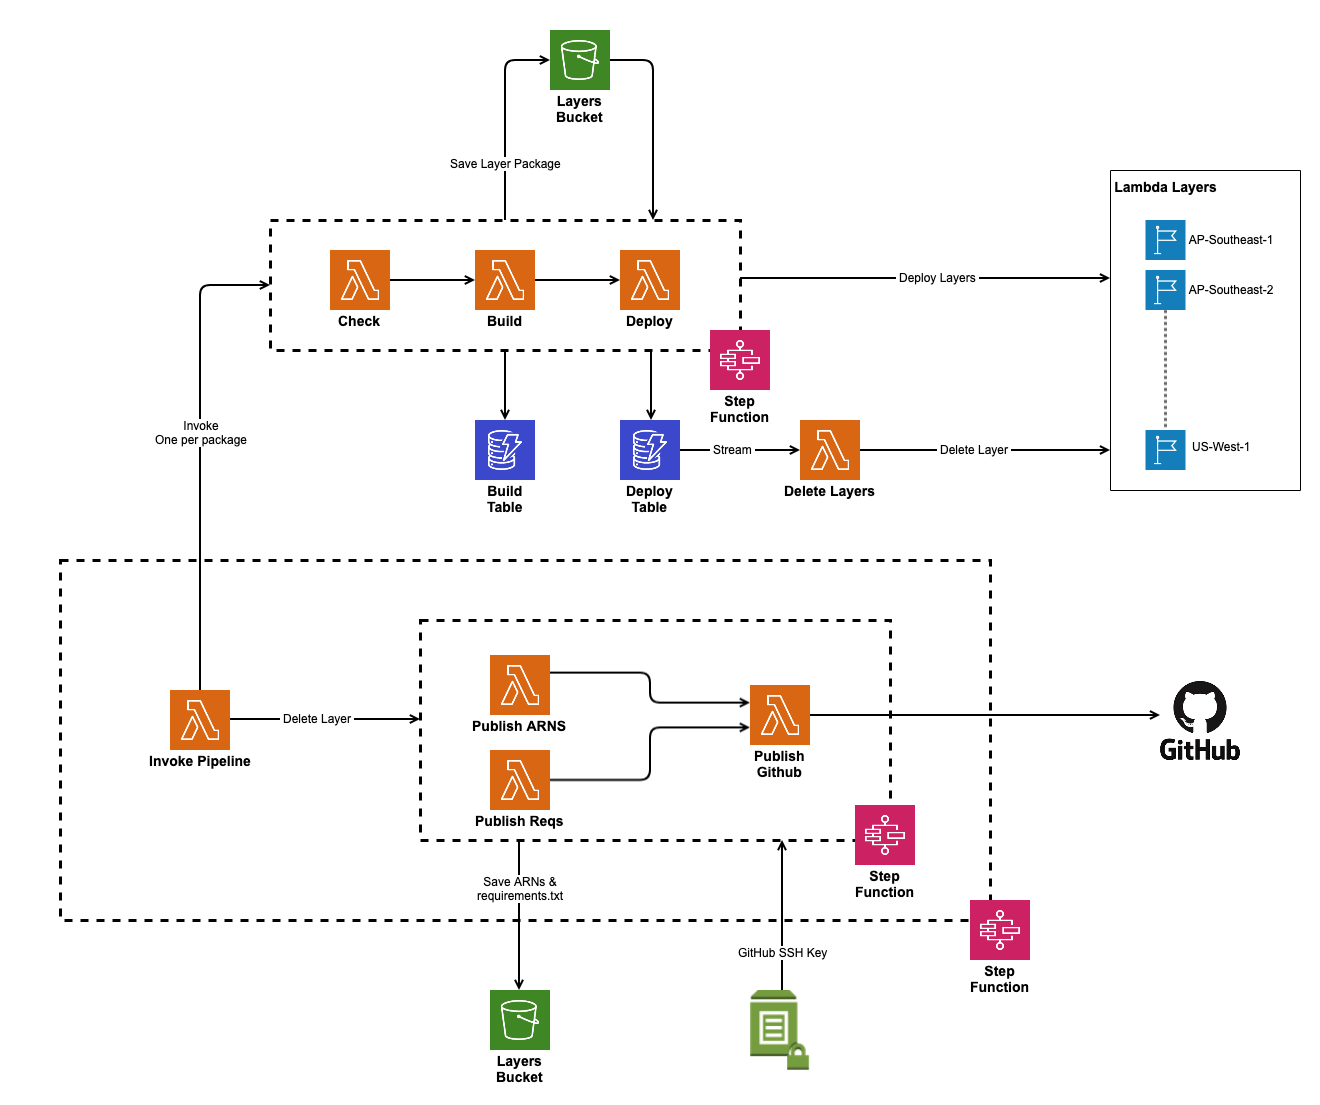
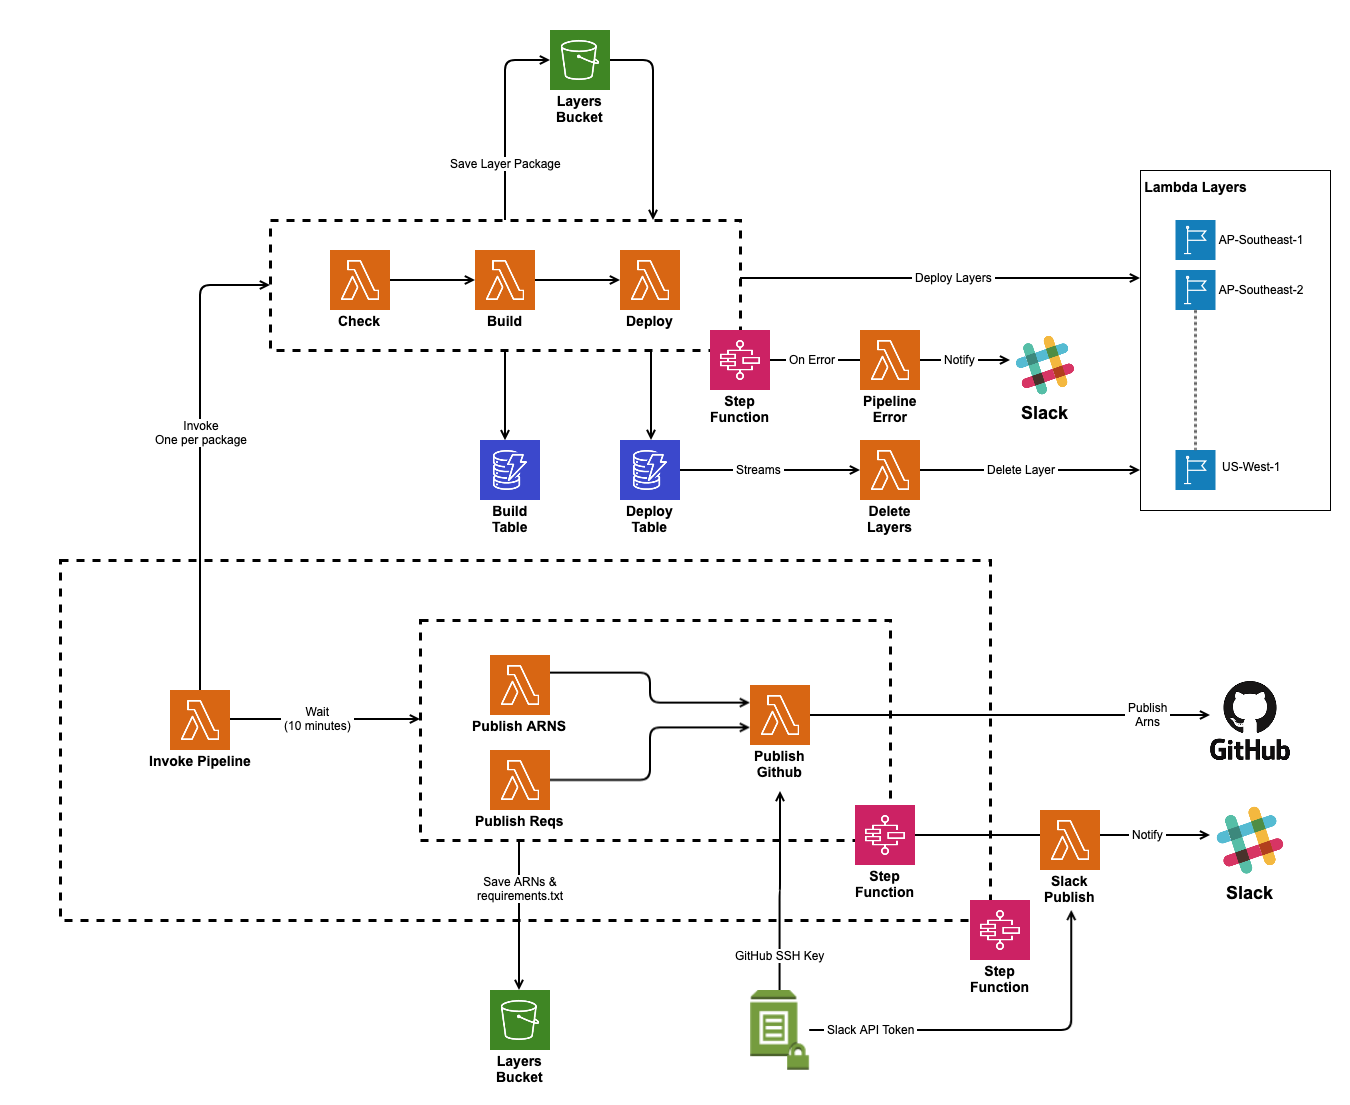
updated diagram

diff --git a/pipeline/infra/README.MD b/pipeline/infra/README.MD
@@ -24,12 +24,13 @@ All variables are stored in `terraform.tfvars.json`
 
 # Note
 
-The Key-Encrypting-Key for the GitHub SSH credentials is the only thing missing from terraform, this is added manually by:
+The Key-Encrypting-Key for the GitHub SSH credentials and slack token are the only things missing from terraform, this is added manually by:
 
 * Uploading an aes-256-cbc encrypted SSH key named `github_id_rsa.enc` to the S3 keys bucket (note the name of the bucket is `s3bucket_keys`)
-* Uploading the openssl password to /<app_name>/<workspace>/ssh_kek paramter in parameter store
-
+* Uploading the openssl password to /<app_name>/<workspace>/ssh_kek parameter in parameter store
 This key is a deploy key for the repo in GitHub, and allows for both read/write access.
+
+* adding the slack_token to the /<app_name>/<workspace>/slack_token parameter in parameter store
 
 # Remote backend & workspaces
 
